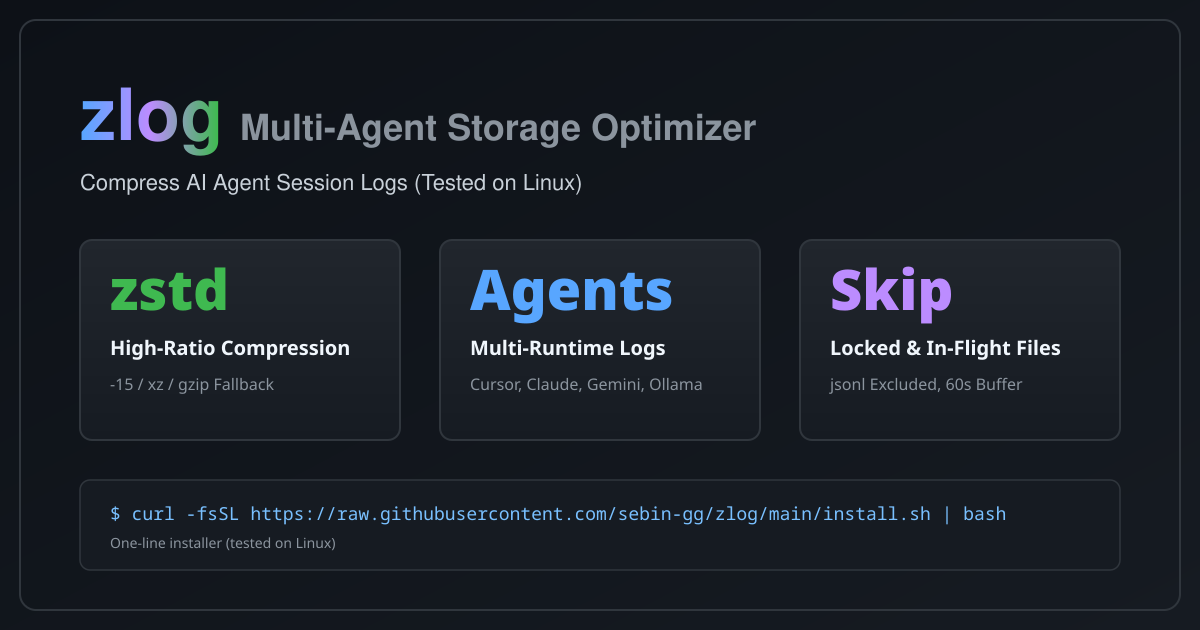
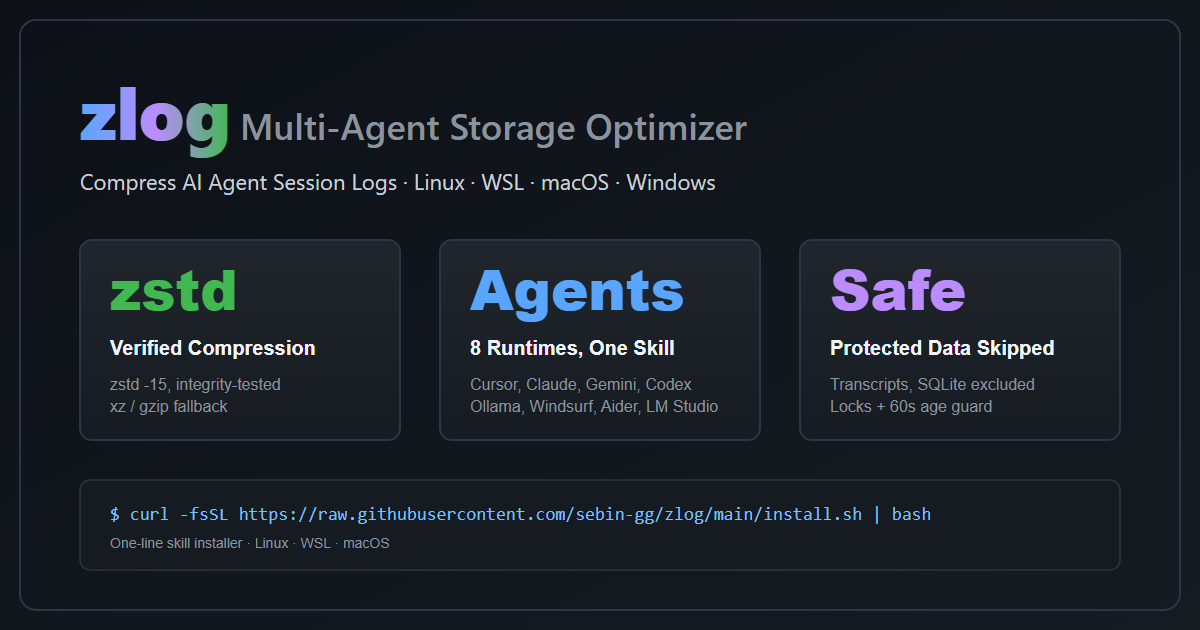
docs: refresh social card claims, macOS badge, re-render PNG

diff --git a/README.md b/README.md
@@ -7,7 +7,7 @@
   <a href="https://skills.sh"><img src="https://img.shields.io/badge/registry-skills.sh-purple" alt="Registry"></a>
   <a href="https://github.com/sebin-gg/zlog/actions"><img src="https://github.com/sebin-gg/zlog/actions/workflows/validate.yml/badge.svg" alt="Validate"></a>
   <a href="LICENSE"><img src="https://img.shields.io/badge/License-MIT-yellow.svg" alt="License"></a>
-  <a href="#compatibility"><img src="https://img.shields.io/badge/compatibility-Linux%20%7C%20Windows%2011-success" alt="Compatibility"></a>
+  <a href="#compatibility"><img src="https://img.shields.io/badge/compatibility-Linux%20%7C%20macOS%20%7C%20Windows%2011-success" alt="Compatibility"></a>
   <a href="https://github.com/sebin-gg/zlog/stargazers"><img src="https://img.shields.io/github/stars/sebin-gg/zlog?style=social" alt="Stars"></a>
 </p>
 

diff --git a/CHANGELOG.md b/CHANGELOG.md
@@ -114,6 +114,11 @@
   mtime helper instead of GNU `touch -d`, `md5` fallback for missing
   `md5sum`); the implementation needed no changes. README/SKILL.md
   now list macOS as tested — every supported platform is covered.
+- Social card refreshed: stale "tested on Linux" claims replaced with
+  all four platforms, "High-Ratio" replaced with verified-compression
+  wording, all 8 runtimes named, safety card reflects protected data;
+  compatibility badge now lists Linux, macOS, Windows 11. PNG
+  re-rendered from the SVG at 1200x630.
 
 ## Unreleased (v2.0.0: skill architecture — brain + scripts + references + tests)
 
